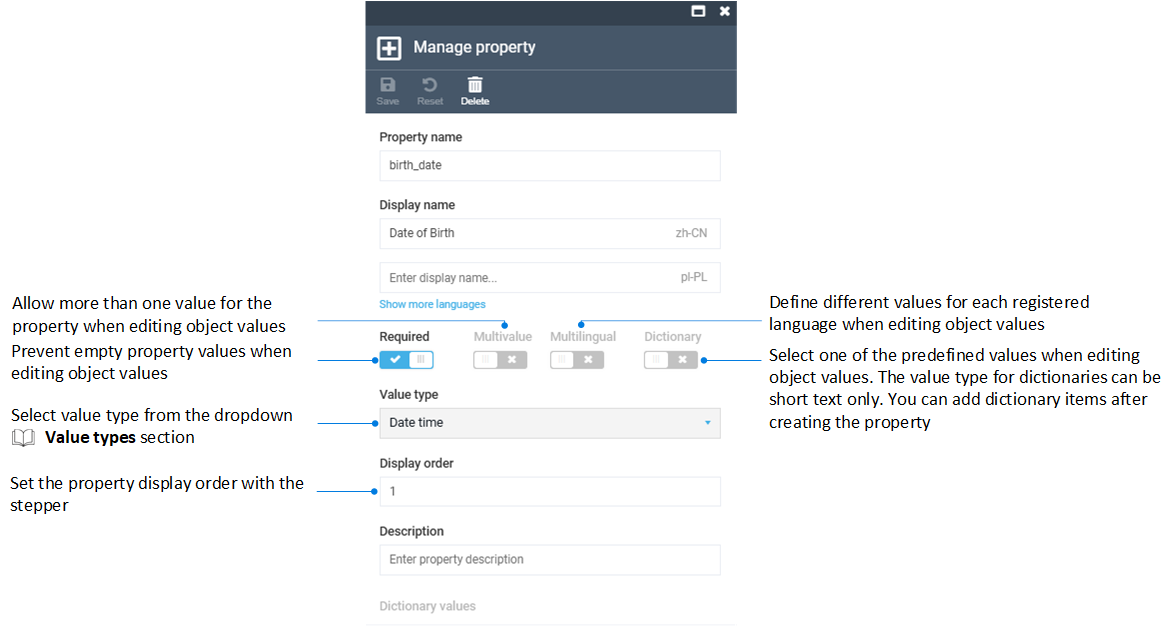
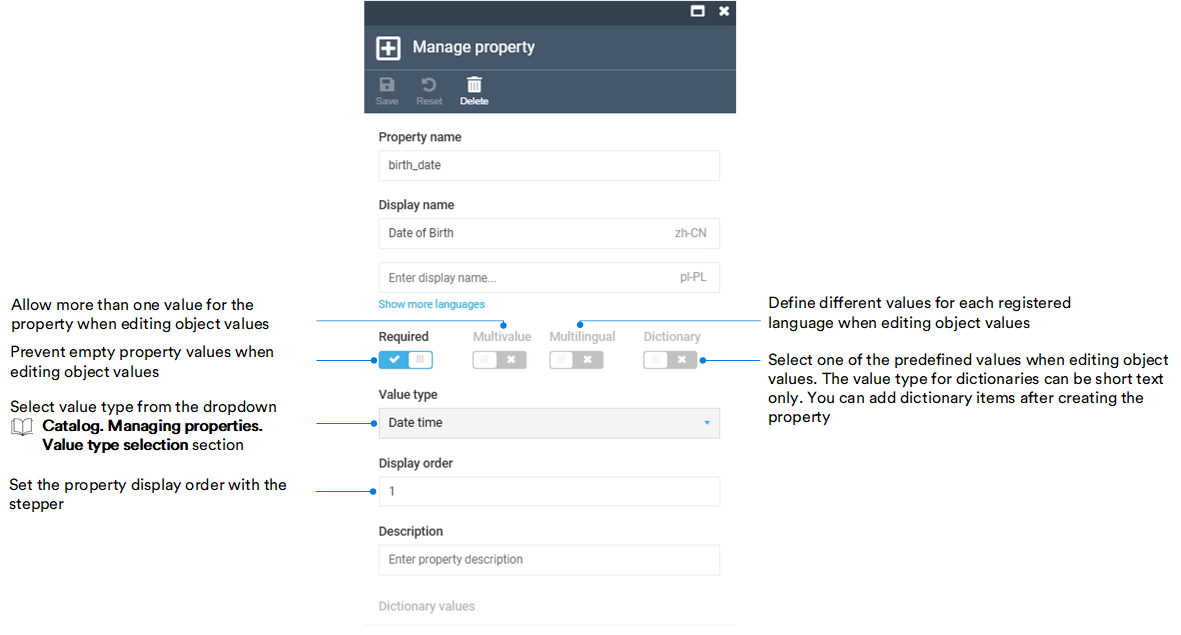
Minor corrections

diff --git a/platform/user-guide/docs/integrations/google-analytics/integration.md b/platform/user-guide/docs/integrations/google-analytics/integration.md
@@ -81,7 +81,7 @@ Your modifications have been applied.
 
 ## GTM event tracking (optional setup)
 
-The module automatically [tracks a number of ecommerce actions](../../../../../storefront/developer-guide/integrations/google-analytics/ga-events). If you are using GTM, you can capture these events by creating GA4 Event tags in GTM:
+The module automatically [tracks a number of ecommerce actions](/storefront/developer-guide/latest/integrations/google-analytics/ga-events). If you are using GTM, you can capture these events by creating GA4 Event tags in GTM:
 
 * In GTM, create a new **Google Analytics: GA4 Event** tag.
 * Set **Configuration Tag** to your GA4 Configuration tag.

diff --git a/platform/user-guide/docs/intent-search/overview.md b/platform/user-guide/docs/intent-search/overview.md
@@ -21,7 +21,7 @@ The diagram below illustrates the interconnection of the Intent Search and Searc
 [![Release](media/latest_release.png)](https://github.com/VirtoCommerce/vc-module-intent-search/releases)
 
 
-![Read more](media/readmore.png){: width="20"} [Intent Search installation](/platform/developer-guide/Fundamentals/Intent-Search/installation-and-configuration)
+![Read more](media/readmore.png){: width="20"} [Intent Search installation](/platform/developer-guide/latest/Fundamentals/Intent-Search/installation-and-configuration)
 
 
 <br>

diff --git a/platform/user-guide/docs/dynamic-properties/managing-dynamic-properties.md b/platform/user-guide/docs/dynamic-properties/managing-dynamic-properties.md
@@ -19,7 +19,7 @@ A new dynamic property has been added. From now on, when adding a contact, the u
 
 ![Dynamic property added](media/dynamic-property-added.png){: style="display: block; margin: 0 auto;" }
 
-![Read more](media/readmore.png){: width="20"} [Value types](/platform/user-guide/dynamic-properties/managing-dynamic-properties/)
+![Read more](media/readmore.png){: width="20"} [Value types](/platform/user-guide/latest/catalog/managing-properties/#value-type-selection)
 
 ## Edit dynamic property values
 

diff --git a/platform/user-guide/docs/inventory/managing-fulfillment-centers.md b/platform/user-guide/docs/inventory/managing-fulfillment-centers.md
@@ -65,7 +65,7 @@ In the fulfillment center's **Products** blade:
 
 The selected items appear in the fulfillment center's product list. 
 
-![Readmore](media/readmore.png){: width="20"} [Managing inventory](/platform/user-guide/inventory/managing-inventory)
+![Readmore](media/readmore.png){: width="20"} [Managing inventory](/platform/user-guide/latest/inventory/managing-inventory)
 
 ## Delete fulfillment center
 

diff --git a/platform/user-guide/docs/return/overview.md b/platform/user-guide/docs/return/overview.md
@@ -28,6 +28,6 @@ The diagram below illustrates the functionality of the Return module:
 ********
 
 <div style="display: flex; justify-content: space-between;">
-    <a href="../../xrecommend/overview">← Recommendations module overview</a>
+    <a href="../../recommend/overview">← Recommendations module overview</a>
     <a href="../managing-returns">Managing returns →</a>
 </div>
